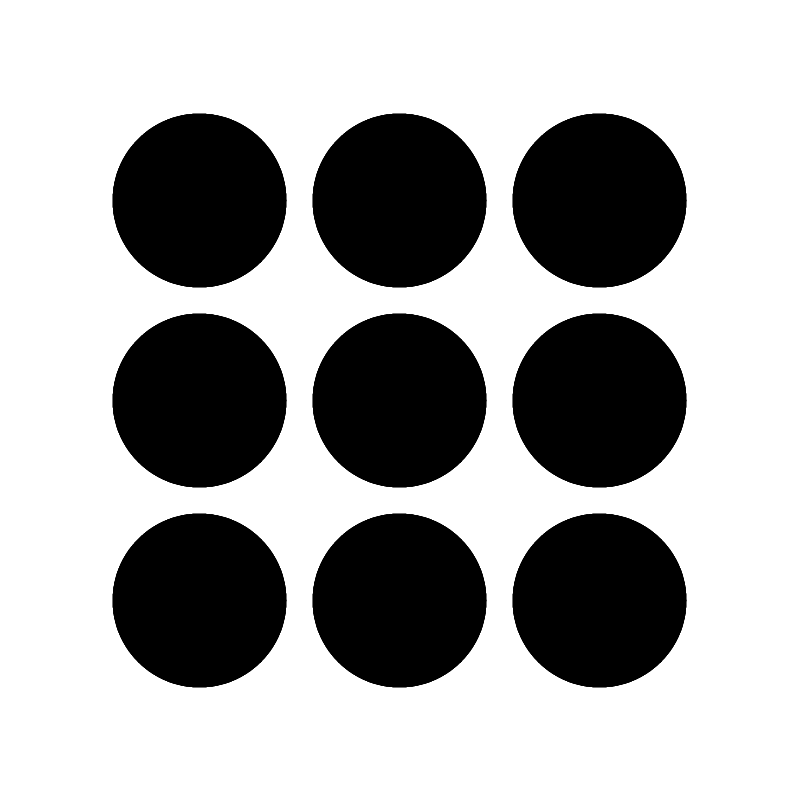
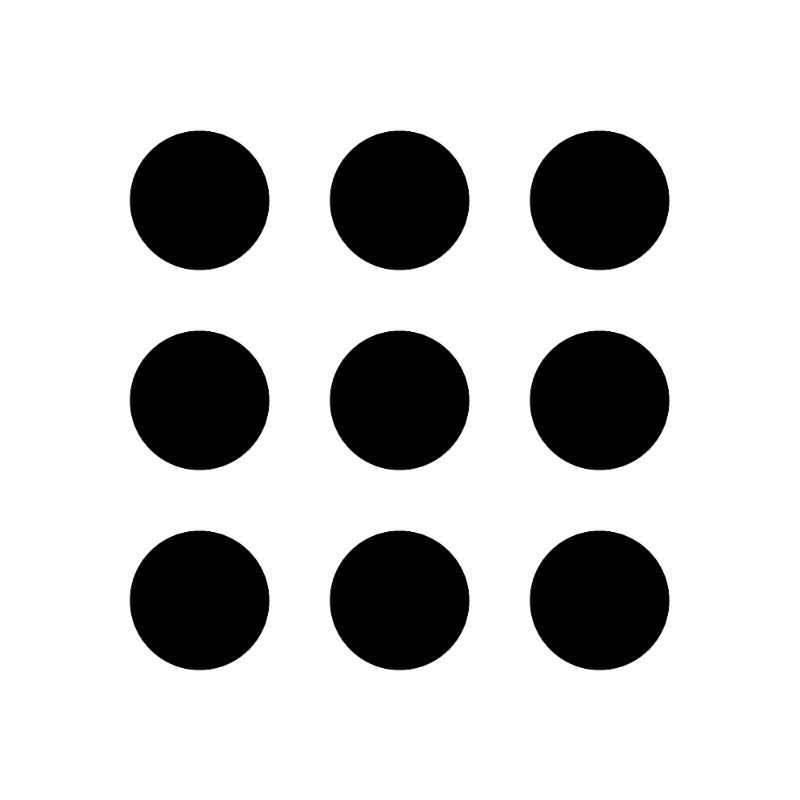
Ajout fonctionnalité : Affiche trait dynamiquement

Changed region(s): [[0.125, 0.125, 0.875, 0.875]]

diff --git a/Enigmas/NinePointsEnigmaPanel.cs b/Enigmas/NinePointsEnigmaPanel.cs
@@ -16,7 +16,8 @@ namespace Cpln.Enigmos.Enigmas
         private Point[] tSaveMouseClickPosition = new Point[5];
         private Point[] tCentrePoint = new Point[9];
         private bool[] tPointTrace = new bool[9];
-        const int RAYON_POINT = 100;
+        private Point cursorPosition = new Point();
+        const int RAYON_POINT = 78;
 
         /// <summary>
         /// Affichage de l'énigme 9 points
@@ -29,8 +30,14 @@ namespace Cpln.Enigmos.Enigmas
             pcbCase9Points.Size = this.Size;
             pcbCase9Points.BackgroundImage = Properties.Resources.NinePoints;
             pcbCase9Points.Click += new System.EventHandler(MouseClick_Affiche9Points);
+            pcbCase9Points.MouseMove += new MouseEventHandler(MouseMove_Afficher9Points);
             pcbCase9Points.Paint += new PaintEventHandler(Paint_pcbCase9Points);
             Controls.Add(pcbCase9Points);
+
+            /*Initialise bouton recommencer*/
+            Button btnRecommencer = new Button();
+            btnRecommencer.Text = "Recommencer";
+            btnRecommencer.Click += new EventHandler(MouseClick_btnRecommencer);
 
             /*Initialise les positions du centre des points*/
             for (int i = 0, iX = 200, iY = 200; i < tCentrePoint.Length; i++, iX += 200)
@@ -46,6 +53,16 @@ namespace Cpln.Enigmos.Enigmas
         }
 
         /// <summary>
+        /// 
+        /// </summary>
+        /// <param name="sender"></param>
+        /// <param name="e"></param>
+        private void MouseClick_btnRecommencer(object sender, EventArgs e)
+        {
+            RedemarrerEnigme();
+        }
+
+        /// <summary>
         /// Dessine les traits dans la PictureBox
         /// </summary>
         /// <param name="sender"></param>
@@ -54,15 +71,19 @@ namespace Cpln.Enigmos.Enigmas
         {
             /*Pinceau*/
             Pen pen = new Pen(Color.Blue, 20);
-
+            int i = 1;
             /*Dessine les traits un par un, si leurs positions sont connues*/
-            for (int i = 1; i < tSaveMouseClickPosition.Length; i++)
+            for (i = 1; i < tSaveMouseClickPosition.Length; i++)
             {
                 if (tSaveMouseClickPosition[i].IsEmpty)
                 {
                     break;
                 }
                 e.Graphics.DrawLine(pen, tSaveMouseClickPosition[i - 1], tSaveMouseClickPosition[i]);
+            }
+            if (cursorPosition != new Point())
+            {
+                e.Graphics.DrawLine(pen, tSaveMouseClickPosition[i - 1], cursorPosition);
             }
         }
 
@@ -123,6 +144,7 @@ namespace Cpln.Enigmos.Enigmas
                 if (bOk)
                 {
                     MessageBox.Show("La réponse est \" 9.\"");
+                    pcbCase9Points.Enabled = false;
                 }
                 else
                 {
@@ -131,6 +153,16 @@ namespace Cpln.Enigmos.Enigmas
                 }
             }
         }
+
+        private void MouseMove_Afficher9Points(object sender, MouseEventArgs e)
+        {
+            if (tSaveMouseClickPosition[0] != new Point())
+            {
+                cursorPosition = e.Location;
+                pcbCase9Points.Invalidate();
+            }
+        }
+
         /// <summary>
         /// Formule qui calcule la distance d'un point à une droite
         /// </summary>
@@ -154,6 +186,7 @@ namespace Cpln.Enigmos.Enigmas
             tSaveMouseClickPosition = new Point[5];
             tPointTrace = new bool[9];
             pcbCase9Points.Image = null;
+            cursorPosition = new Point();
         }
     }
 }

diff --git a/Properties/Resources.Designer.cs b/Properties/Resources.Designer.cs
@@ -72,8 +72,8 @@ namespace Cpln.Enigmos.Properties {
         ///    &lt;hint&gt;Remettez les pièces à leur place.&lt;/hint&gt;
         ///  &lt;/enigma&gt;
         ///  &lt;enigma title=&quot;9 Points&quot;&gt;
-        ///    &lt;answer&gt;jongleur&lt;/answer&gt;
-        ///    &lt;hint&gt;Remettez les pièces à leur place.&lt;/hint&gt;
+        ///    &lt;answer&gt;9.&lt;/answer&gt;
+        ///    &lt;hint&gt;Tracé les 9 points en 4 traits&lt;/hint&gt;
         ///  &lt;/enigma&gt;
         ///&lt;/enigmas&gt;
         ///.
